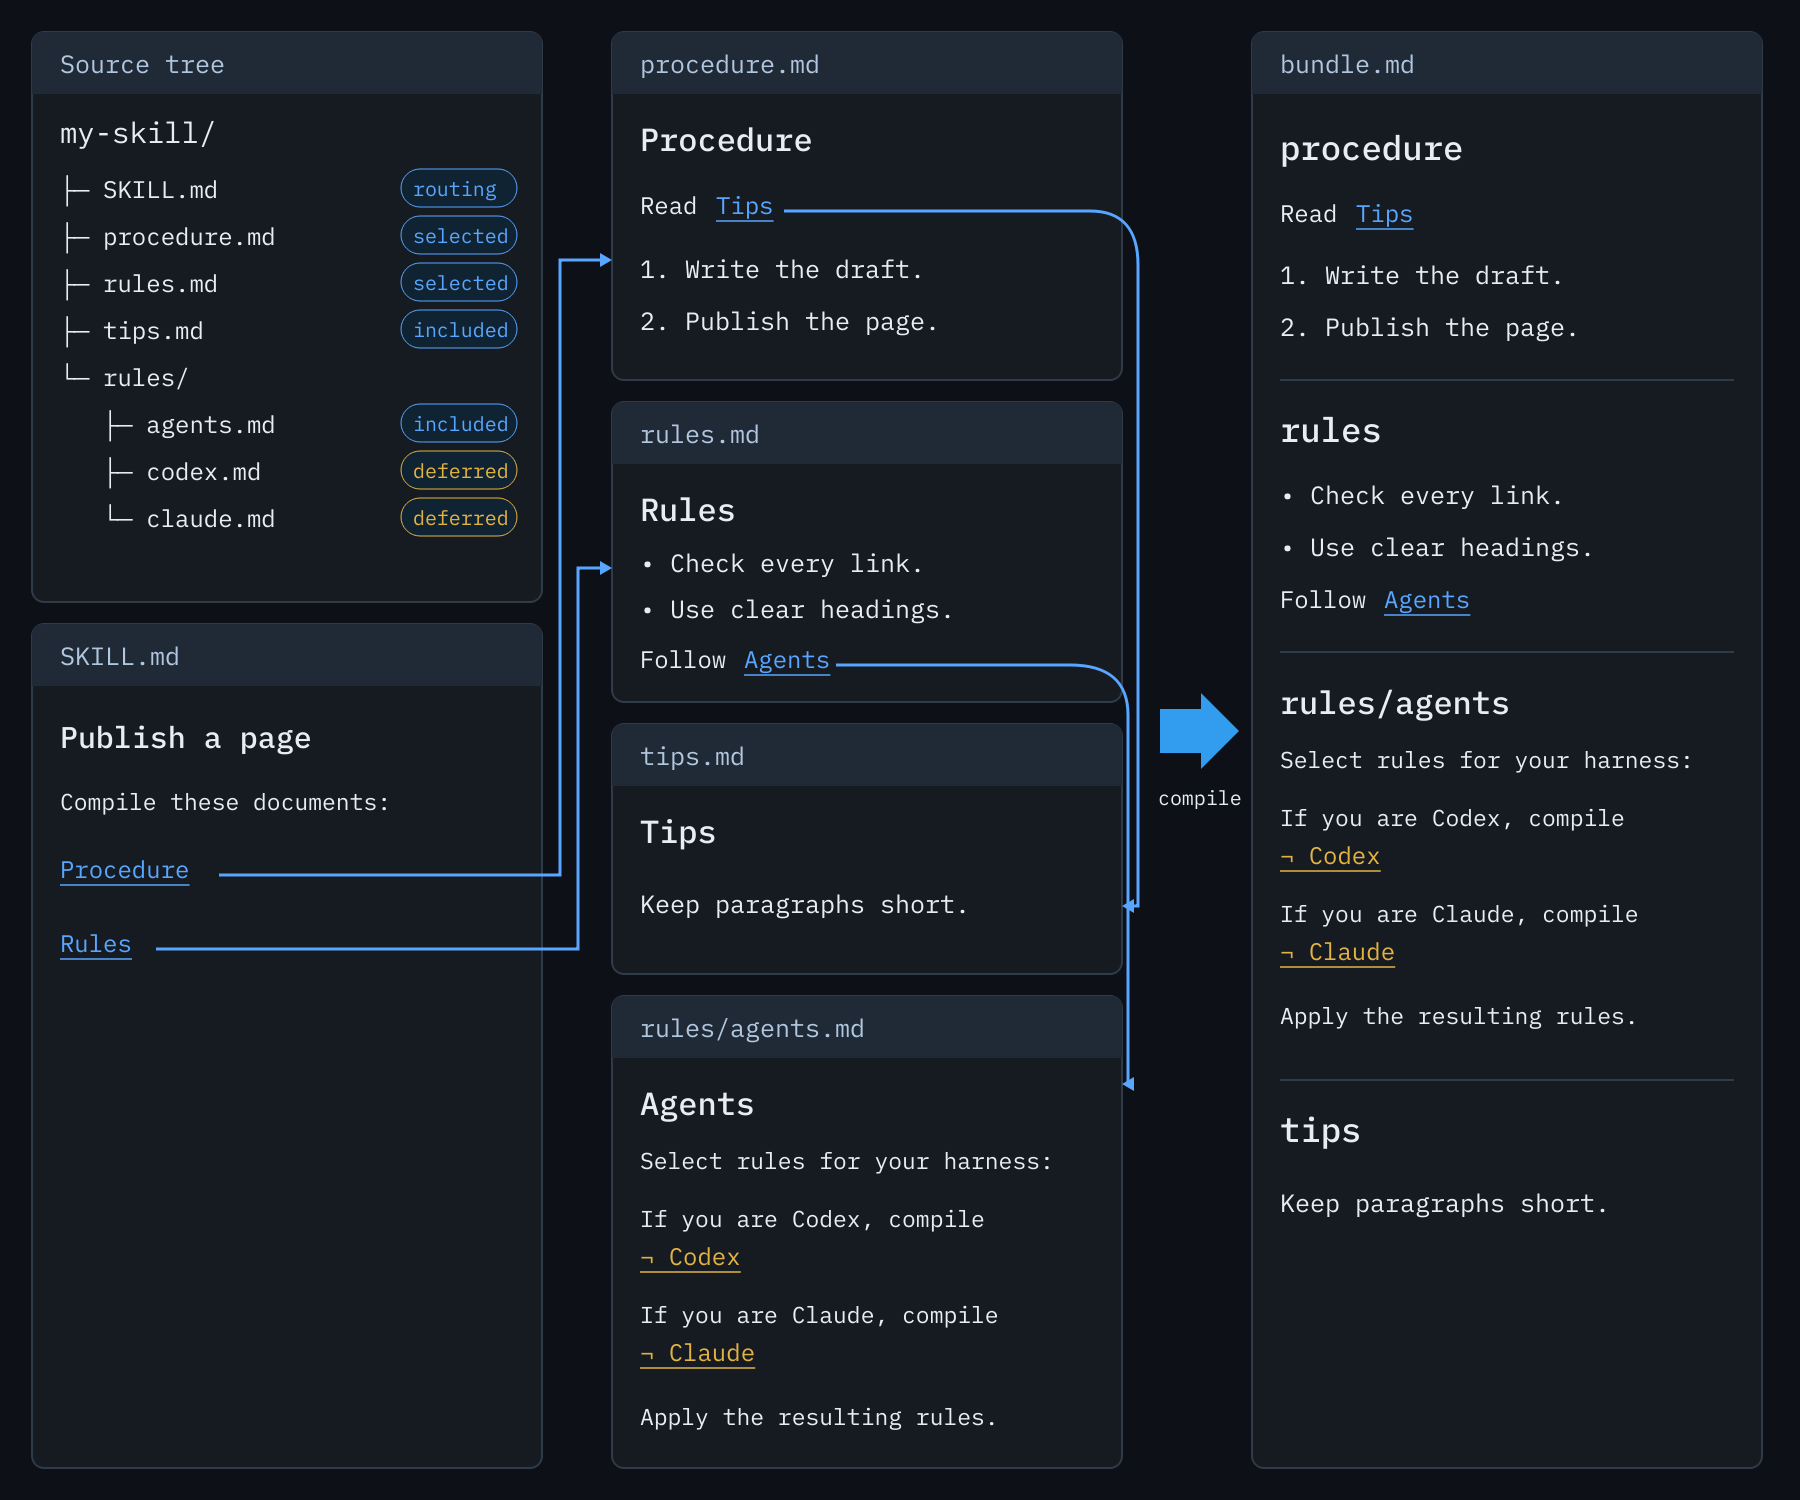
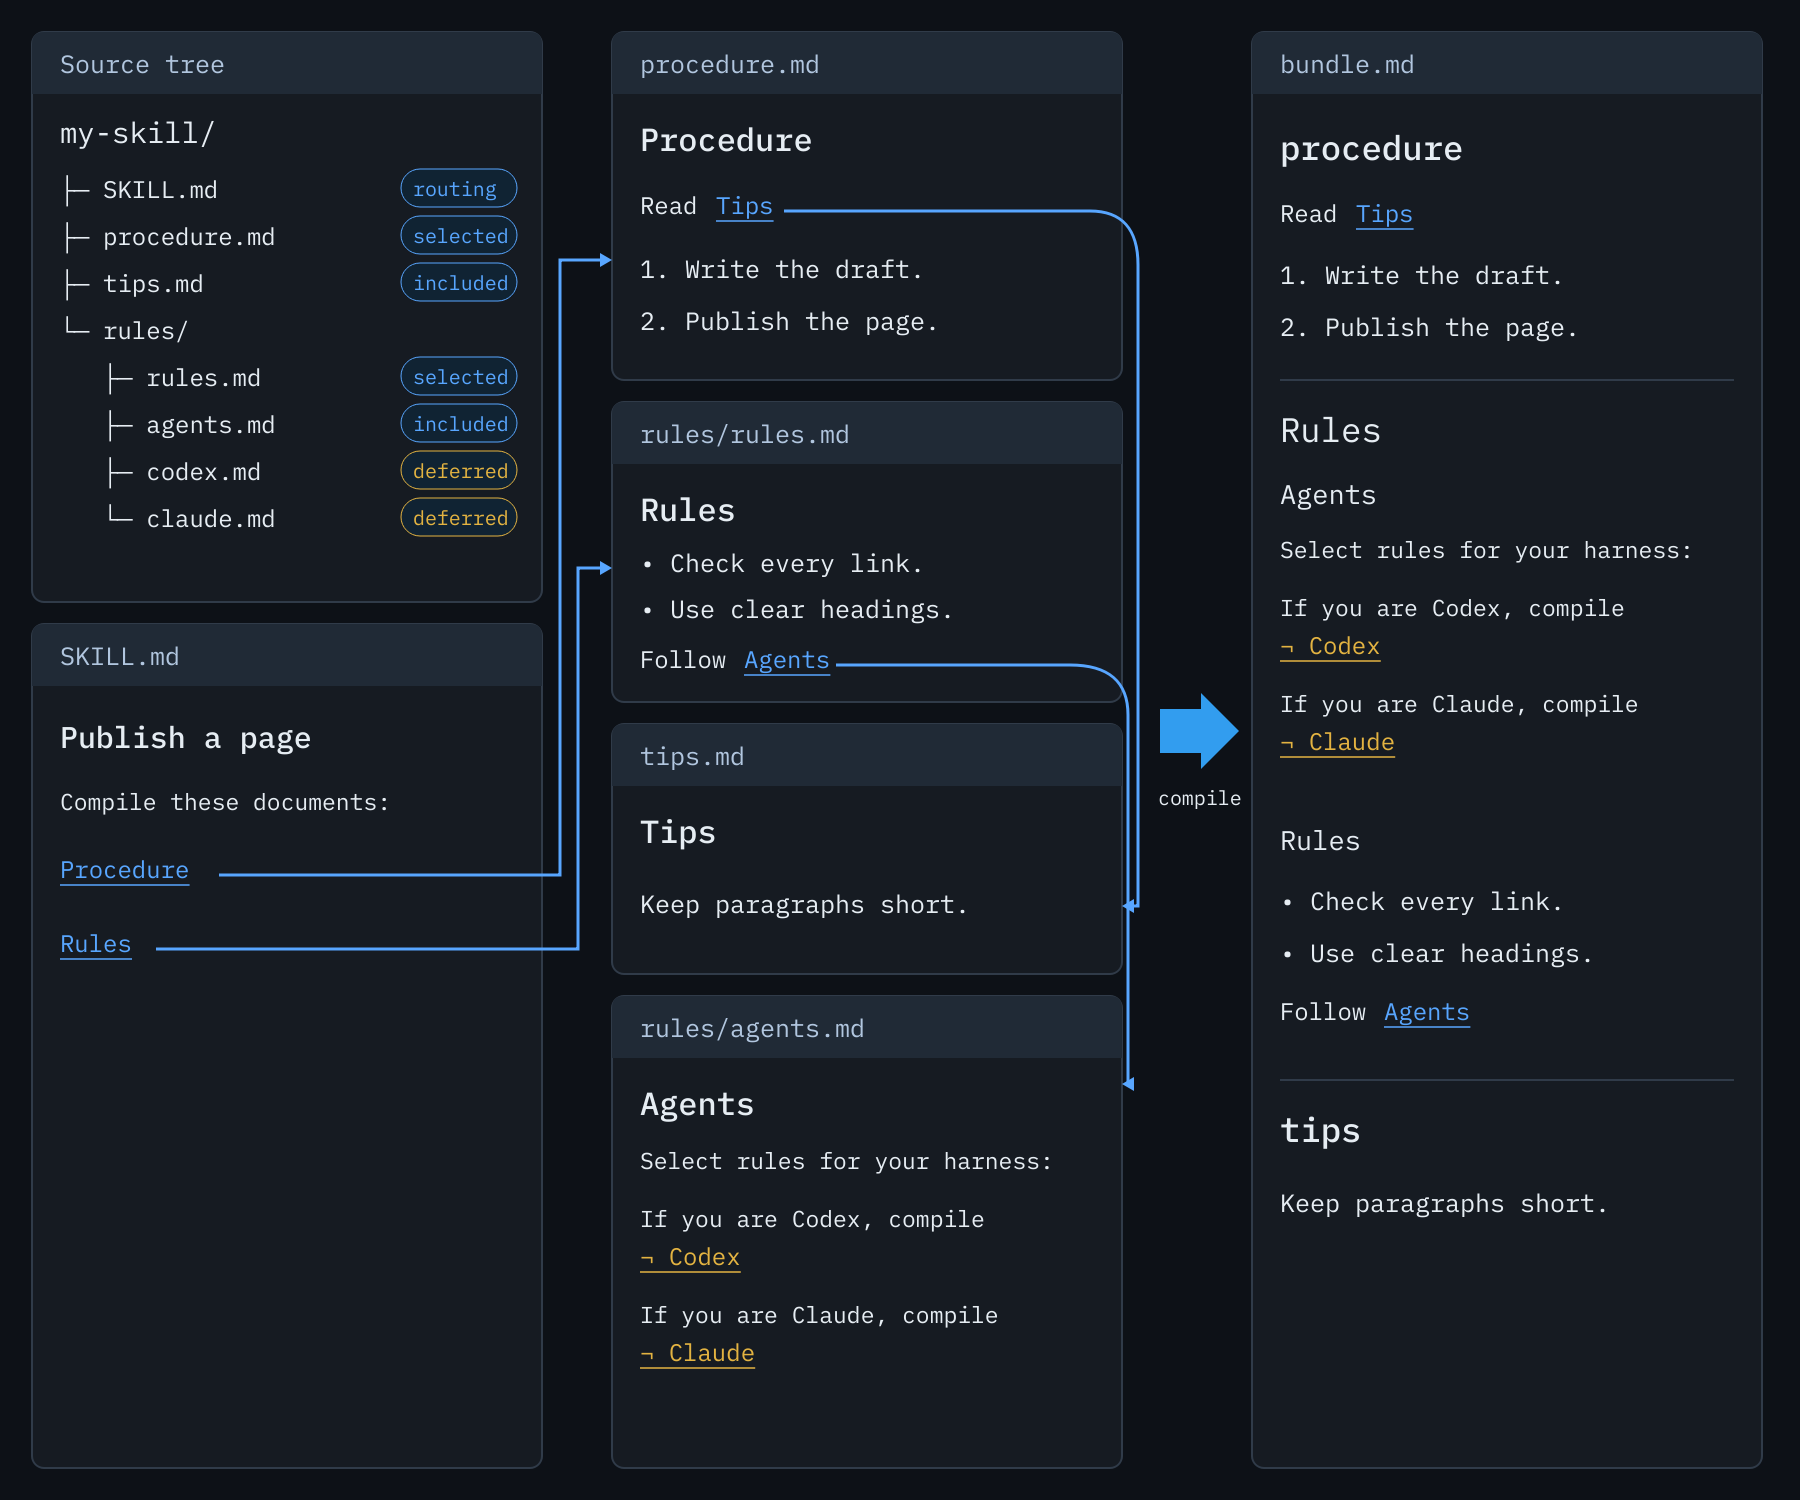
docs: group Agents beneath Rules in the shared bundle

diff --git a/README.md b/README.md
@@ -32,10 +32,10 @@ Leaving retrieval to the agent costs:
 Run these diagram examples from `example/`, using [my-skill](example/my-skill/SKILL.md).
 
 ```bash
-prosiform --root my-skill --output bundle.md procedure.md rules.md
+prosiform --root my-skill --group rules:1 --output bundle.md procedure.md rules/rules.md
 ```
 
-![SKILL.md selects procedure.md and rules.md. Procedure includes tips.md; Rules includes rules/agents.md. The bundle contains Agents instructions directing each harness to its deferred Codex or Claude rules. SKILL.md and the harness-specific rules are excluded.](docs/images/compilation.png)
+![SKILL.md selects procedure.md and rules/rules.md. Procedure includes tips.md; Rules includes rules/agents.md. The Rules group contains an Agents subsection with instructions directing each harness to its deferred Codex or Claude rules. SKILL.md and the harness-specific rules are excluded.](docs/images/compilation.png)
 
 #### Compile agent-specific rules
 

diff --git a/example/my-skill/rules/agents.md b/example/my-skill/rules/agents.md
@@ -4,5 +4,3 @@ Select rules for your harness:
 
 - If you are Codex, compile [¬ Codex](codex.md).
 - If you are Claude, compile [¬ Claude](claude.md).
-
-Apply the resulting rules.

diff --git a/example/my-skill/rules/rules.md b/example/my-skill/rules/rules.md
@@ -3,4 +3,4 @@
 - Check every link.
 - Use clear headings.
 
-Follow [Agents](rules/agents.md).
+Follow [Agents](agents.md).

diff --git a/example/my-skill/SKILL.md b/example/my-skill/SKILL.md
@@ -4,4 +4,4 @@ Compile these documents:
 
 [Procedure](procedure.md)
 
-[Rules](rules.md)
+[Rules](rules/rules.md)
